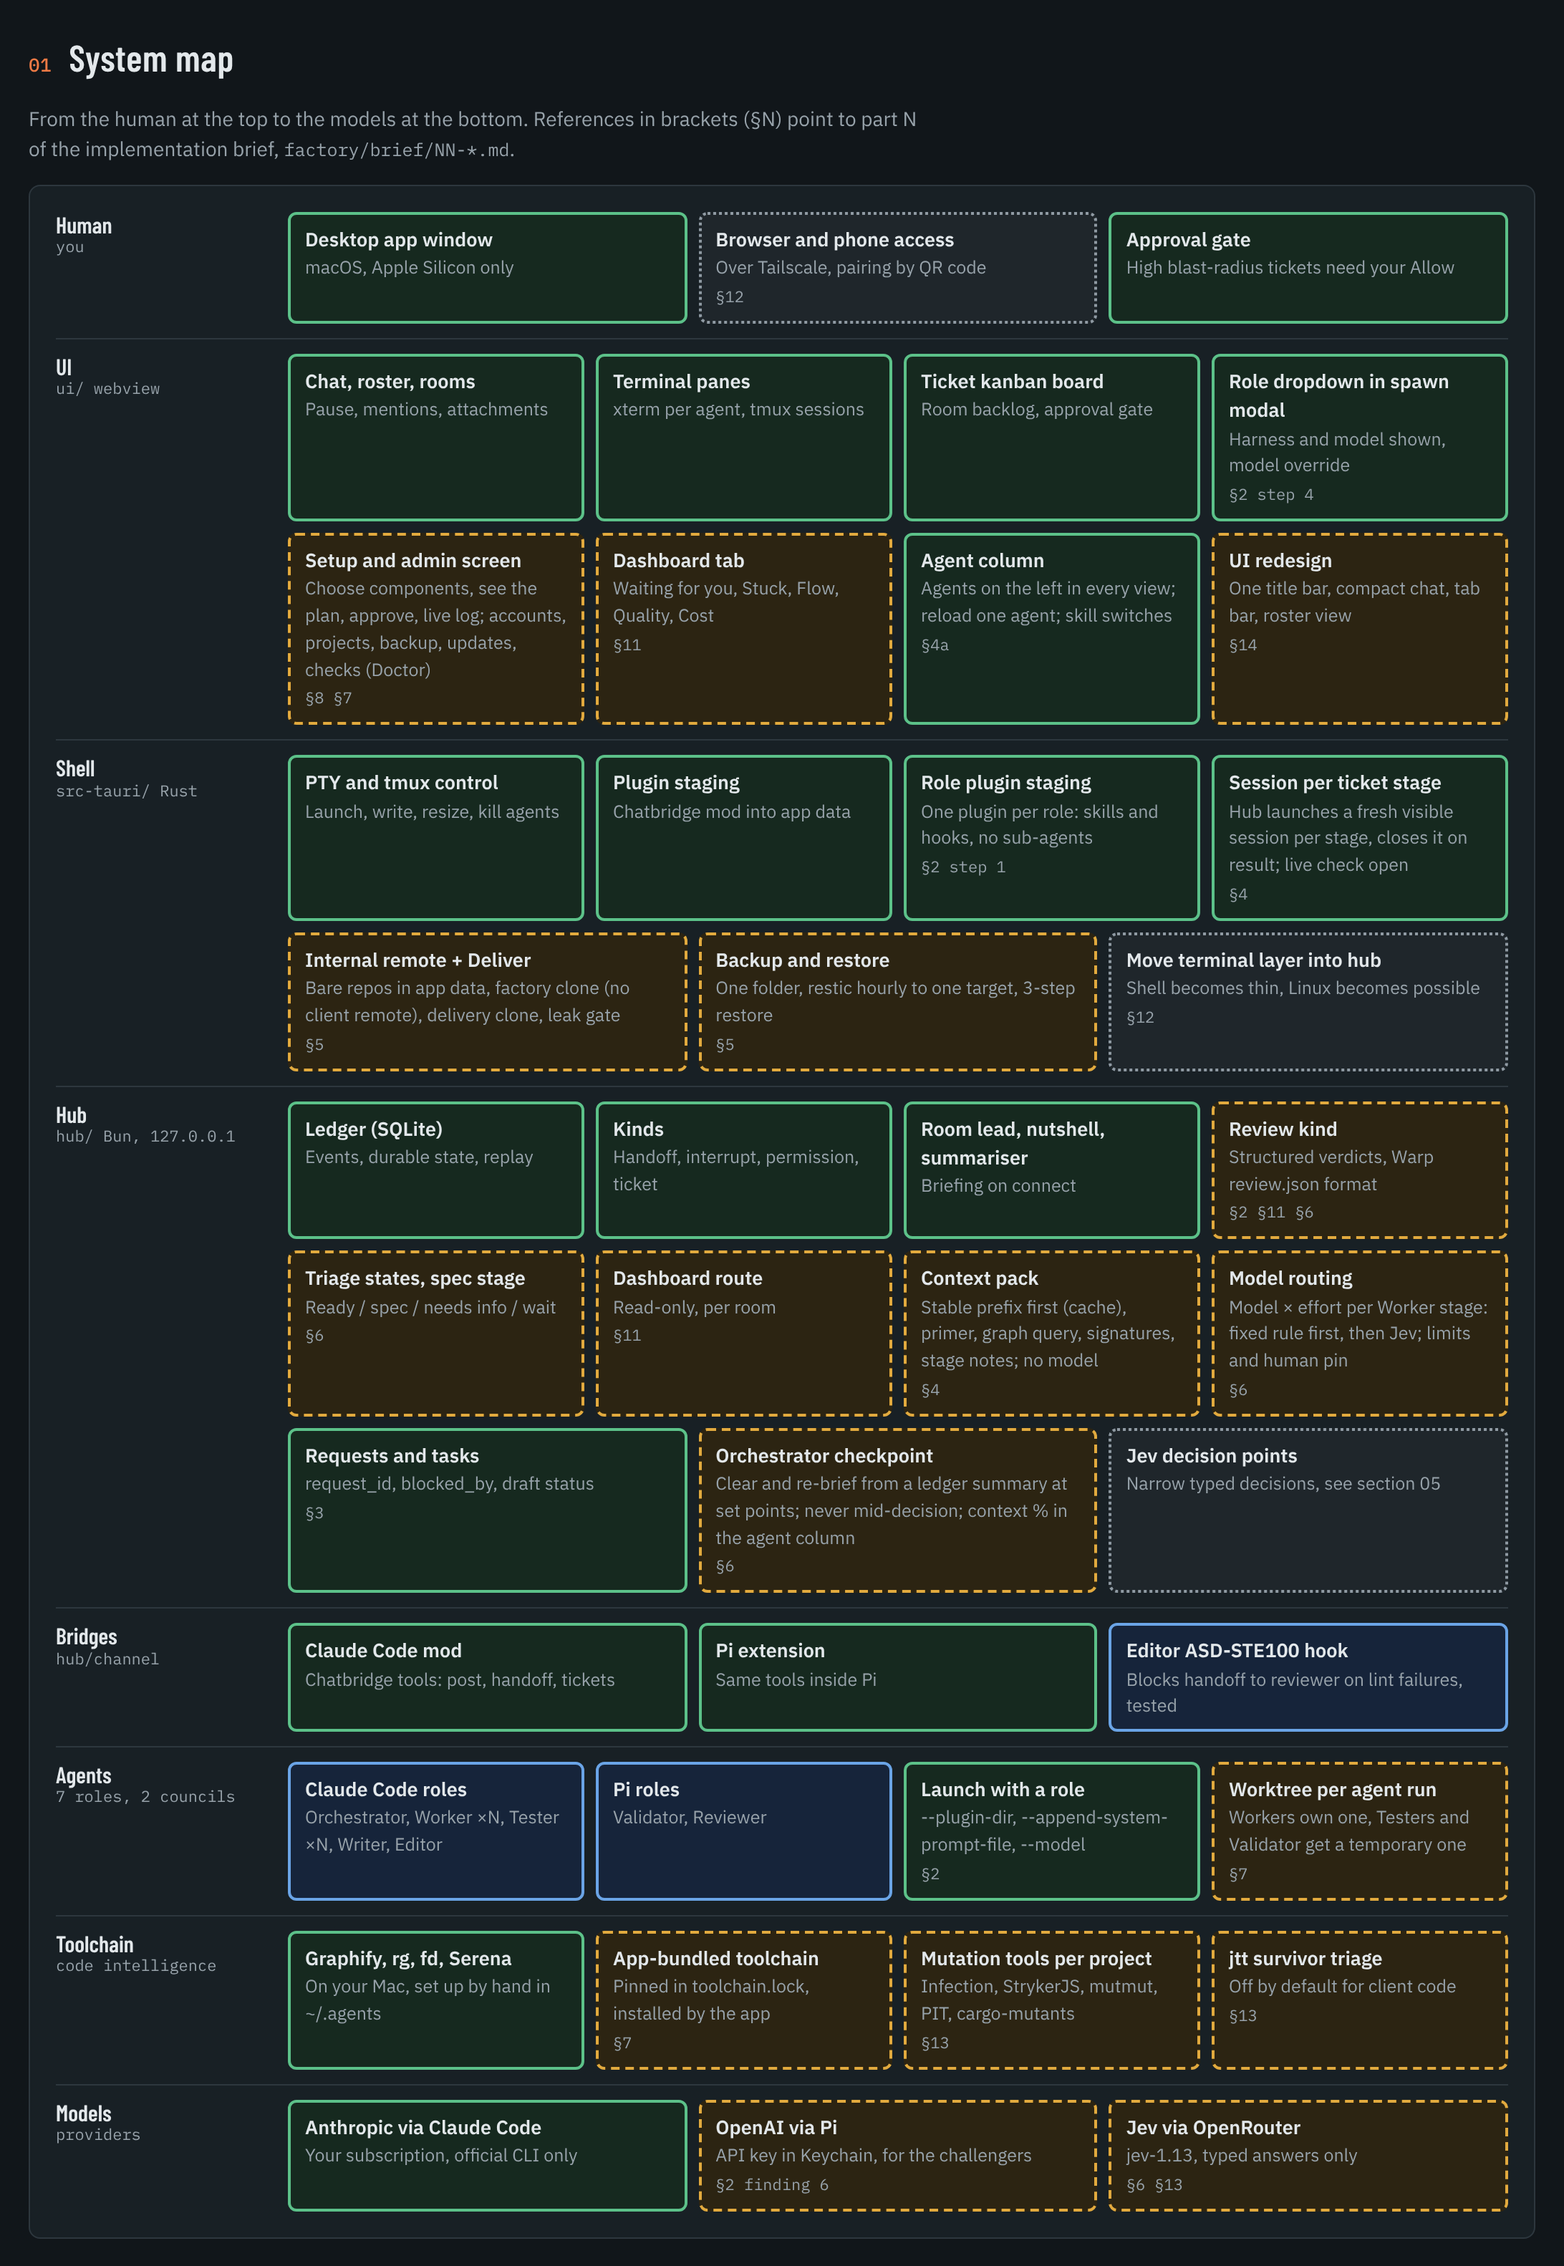
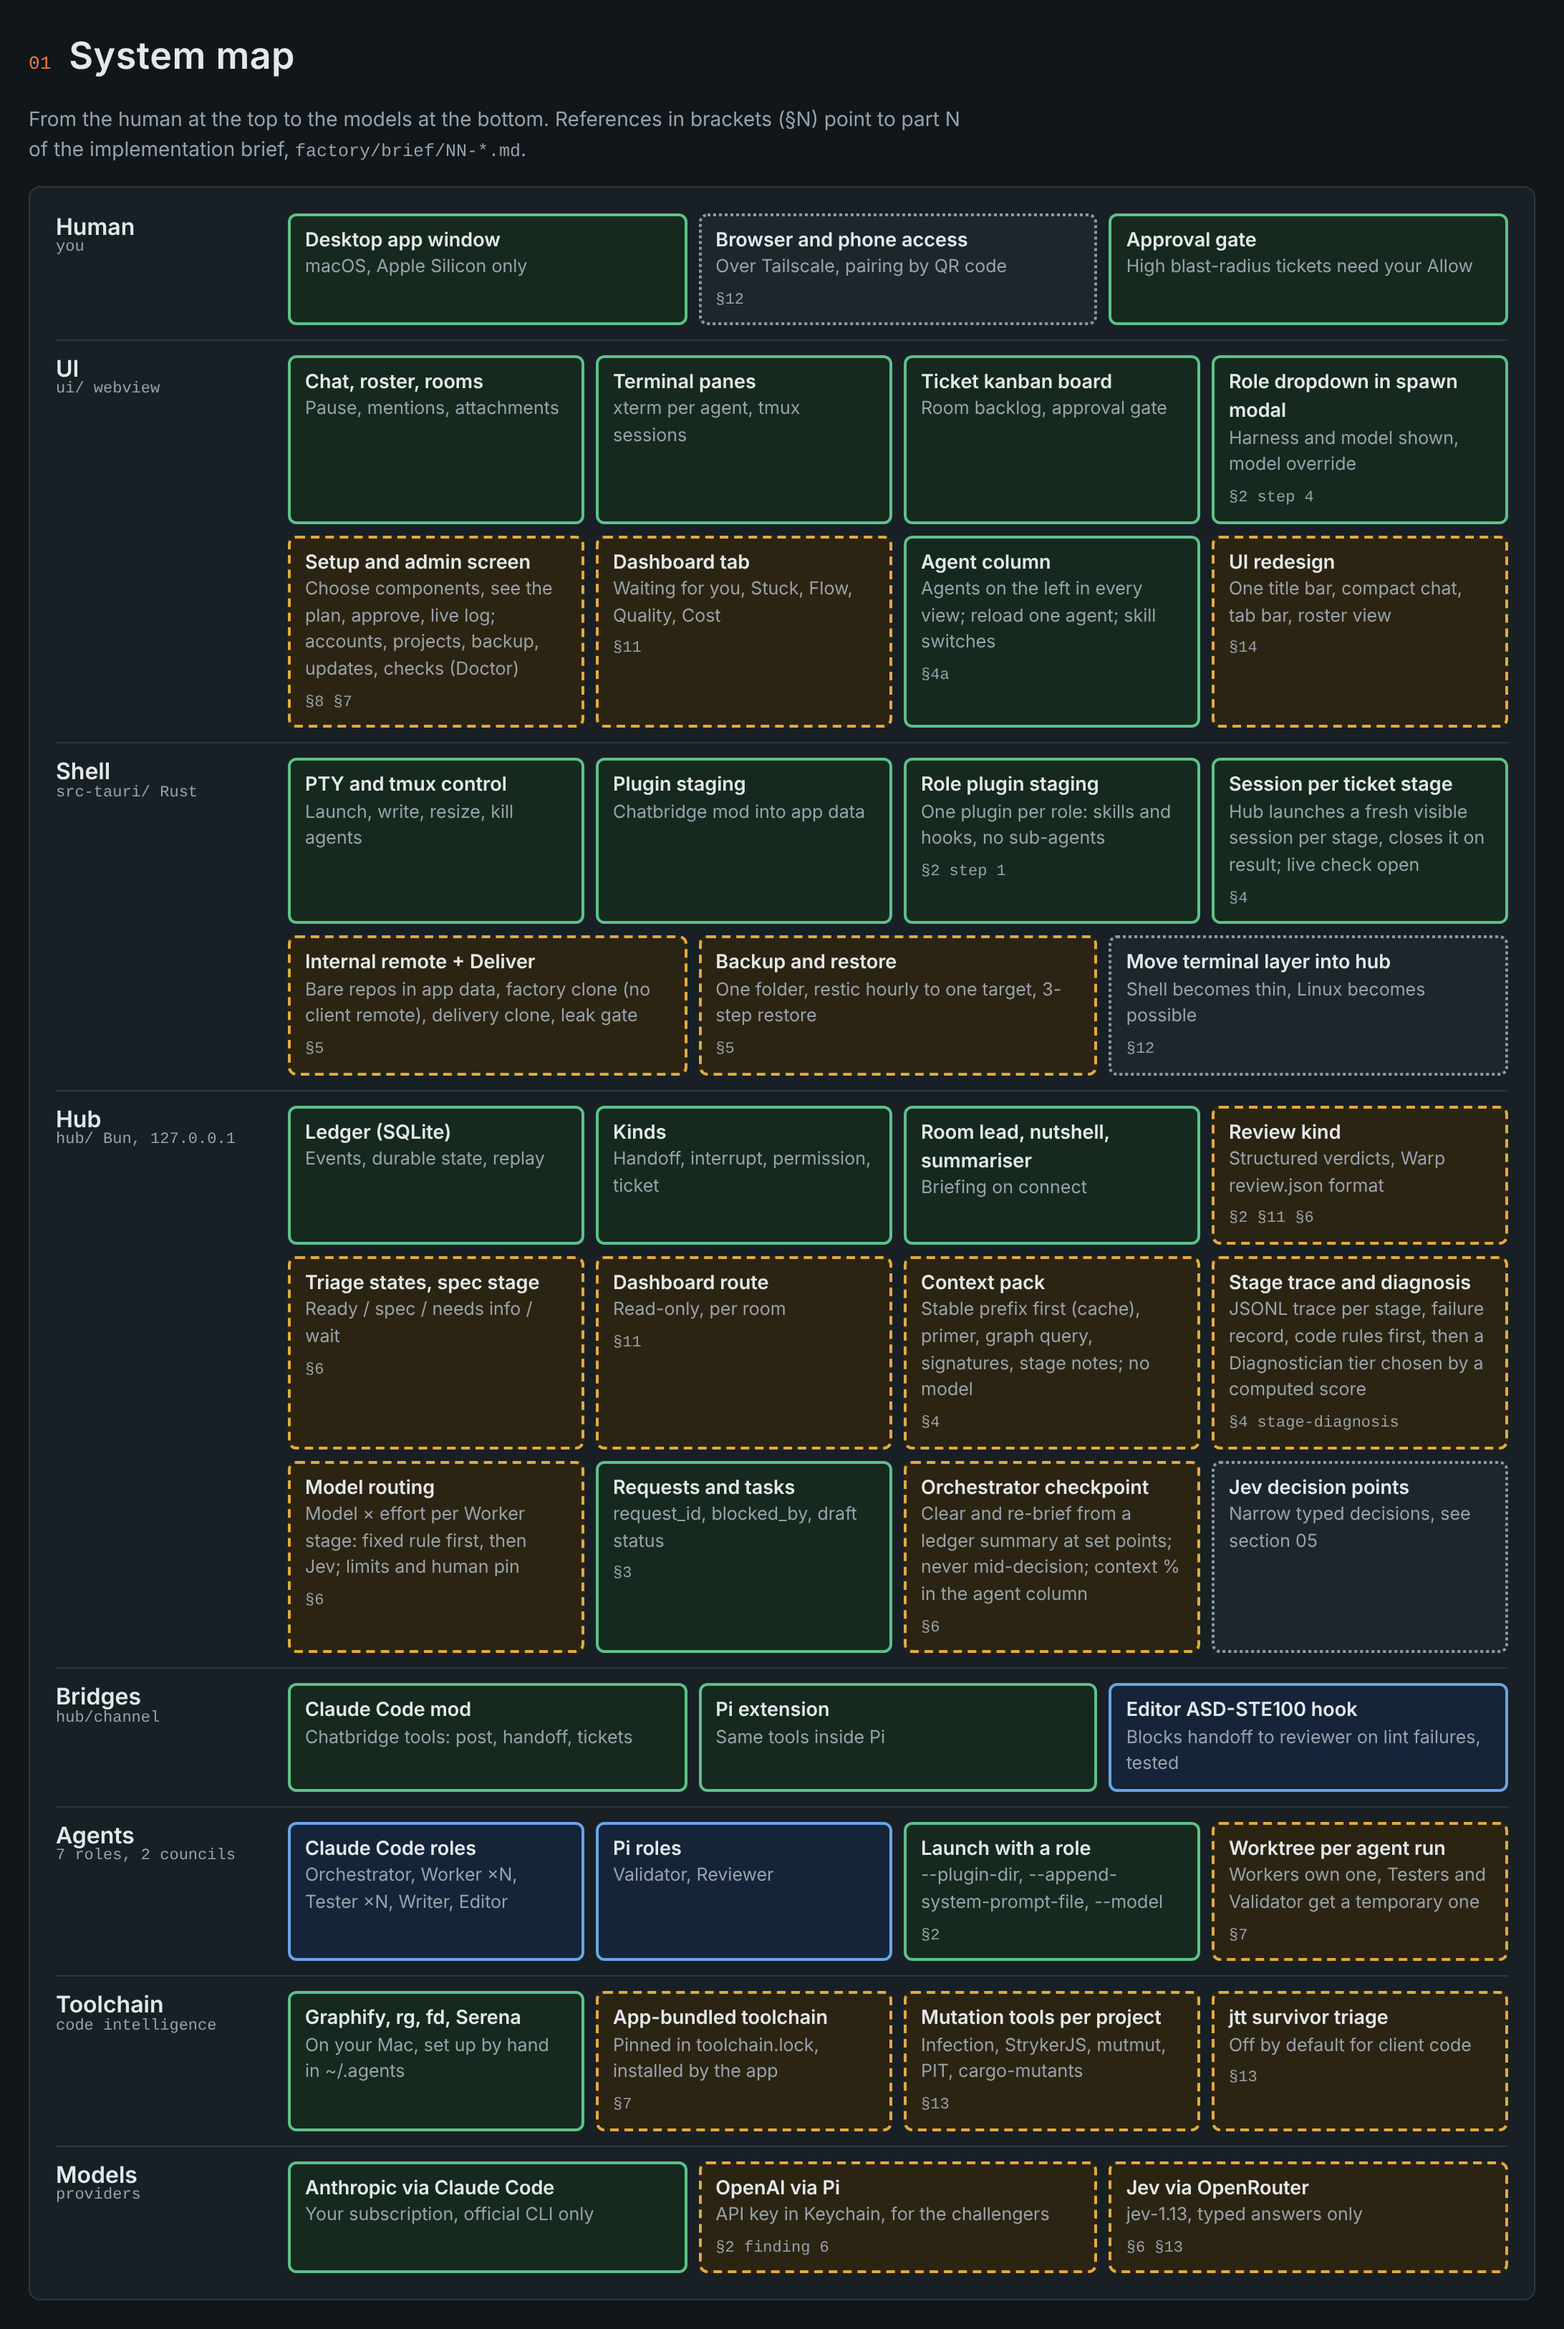
docs: factory map adds stage diagnosis (trace, failure record, Diagnostician role, tiers, stage failure flow, cause keys, fixtures, stage metrics)

diff --git a/docs/factory-map.html b/docs/factory-map.html
@@ -141,7 +141,7 @@ footer{color:var(--muted);font-size:12.5px;display:grid;gap:4px}
 <div class="wrap">
 
 <header>
-  <div class="eyebrow">Cubilot · The Continuous Software Foundry · state on 21 October 2026</div>
+  <div class="eyebrow">Cubilot · The Continuous Software Foundry · state on 27 October 2026</div>
   <h1>Cubilot Factory Map</h1>
   <p class="sub">The whole factory on one page: what runs in the code today, what is defined in the <code>factory/</code> folder, what the implementation brief plans, and which ideas are only saved. Click a status to highlight it.</p>
   <div class="legend" role="group" aria-label="Highlight by status">
@@ -199,6 +199,7 @@ footer{color:var(--muted);font-size:12.5px;display:grid;gap:4px}
         <div class="n planned"><span class="t">Triage states, spec stage</span><span class="d">Ready / spec / needs info / wait</span><span class="ref">§6</span></div>
         <div class="n planned"><span class="t">Dashboard route</span><span class="d">Read-only, per room</span><span class="ref">§11</span></div>
         <div class="n planned"><span class="t">Context pack</span><span class="d">Stable prefix first (cache), primer, graph query, signatures, stage notes; no model</span><span class="ref">§4</span></div>
+        <div class="n planned"><span class="t">Stage trace and diagnosis</span><span class="d">JSONL trace per stage, failure record, code rules first, then a Diagnostician tier chosen by a computed score; metrics on every stage; one ticket per cause</span><span class="ref">§4 stage-diagnosis</span></div>
         <div class="n planned"><span class="t">Model routing</span><span class="d">Model × effort per Worker stage: fixed rule first, then Jev; limits and human pin</span><span class="ref">§6</span></div>
         <div class="n built"><span class="t">Requests and tasks</span><span class="d">request_id, blocked_by, draft status</span><span class="ref">§3</span></div>
         <div class="n planned"><span class="t">Orchestrator checkpoint</span><span class="d">Clear and re-brief from a ledger summary at set points; never mid-decision; context % in the agent column</span><span class="ref">§6</span></div>
@@ -305,6 +306,16 @@ footer{color:var(--muted);font-size:12.5px;display:grid;gap:4px}
       <dt>never</dt><dd>edits files</dd></dl>
     </article>
 
+    <article class="n planned role">
+      <div class="head"><h3>Diagnostician</h3><span class="model">Claude · tier</span></div>
+      <span class="track">All tracks · failed stages</span>
+      <p class="job">Reads the trace and the failure record of a failed stage. Returns cause, evidence, proven or probable, and one action. Code picks the tier from a score: 0 rules only, 1–3 sonnet low, 4–6 sonnet medium, 7+ and the daily pattern run opus high.</p>
+      <dl><dt>skills</dt><dd>debugging-and-error-recovery, silent-failure-hunter, evidence-collector, stage-failure-categories (new)</dd>
+      <dt>actions</dt><dd>retry, setup-fix-and-retry, gap-ticket, ticket-change, escalate</dd>
+      <dt>measured</dt><dd>share of actions that led to a PASS, per tier</dd>
+      <dt>never</dt><dd>edits files, commits, launches, diagnoses a diagnosis</dd></dl>
+    </article>
+
     <article class="n defined role">
       <div class="head"><h3>SEO council</h3><span class="model">Claude + OpenAI</span></div>
       <span class="track">SEO track · 4 seats</span>
@@ -365,6 +376,19 @@ footer{color:var(--muted);font-size:12.5px;display:grid;gap:4px}
       </div>
       <p class="loop"><b>CHANGES</b> returns to the Writer, who sends large rewrites back through the Editor.</p>
     </div>
+  </div>
+
+  <div class="panel">
+    <h3>Stage failure</h3>
+    <div class="flow">
+      <div class="n built"><span class="t">Stage fails</span><span class="d">FAIL, time-out, crash or retry</span></div><span class="arrow">→</span>
+      <div class="n planned"><span class="t">Failure record</span><span class="d">trace, last 200 pane lines, exit status, worktree check, category</span></div><span class="arrow">→</span>
+      <div class="n planned"><span class="t">Code rules</span><span class="d">known category: run its action, no agent</span></div><span class="arrow">→</span>
+      <div class="n planned"><span class="t">Score and tier</span><span class="d">components, attempts, errors, trace gaps, repeats; same trace, same tier</span></div><span class="arrow">→</span>
+      <div class="n planned"><span class="t">Diagnostician</span><span class="d">cause, evidence, proven | probable, one action</span></div><span class="arrow">→</span>
+      <div class="n planned"><span class="t">Action</span><span class="d">retry once (proven); gap ticket per cause key, with a test that reproduces it; change to the Orchestrator</span><span class="gate">escalate: Needs you</span><span class="ref">§4 stage-diagnosis</span></div>
+    </div>
+    <p class="loop"><b>The Orchestrator</b> gets one line per failure: cause, evidence, action taken. The ticket shows <b>Why it failed</b> with a link to the trace. A repeat with the same cause key goes onto the open ticket; an ignored key stays quiet. A gap ticket is Done only when its fixture test and the full suite pass. <b>Patterns:</b> once a day, after 10 records, or when one category occurs 3 times in an hour, one opus run reads the new records, the metrics of every stage (also PASS: duration, turns, tokens, repeated tool calls) and your right/wrong marks from Needs you, and proposes gap tickets.</p>
   </div>
 
   <div class="panel">
@@ -439,7 +463,7 @@ footer{color:var(--muted);font-size:12.5px;display:grid;gap:4px}
     <div class="n built"><span class="step">1</span><span class="t">Rebrand to Cubilot</span><span class="d">done: own identifier and data folder, side by side with the previous app</span><span class="ref">§1</span></div>
     <div class="n built"><span class="step">2</span><span class="t">Roles</span><span class="d">done: launch with a role, role plugins, no sub-agents</span><span class="ref">§2</span></div>
     <div class="n built"><span class="step">3</span><span class="t">Ticket grouping</span><span class="d">done: request_id, blocked_by, draft status</span><span class="ref">§3</span></div>
-    <div class="n planned"><span class="step">4</span><span class="t">Session per ticket stage</span><span class="d">in test: built and live-checked; open: 4 high-radius tests, waivers, context pack</span><span class="ref">§4</span></div>
+    <div class="n planned"><span class="step">4</span><span class="t">Session per ticket stage</span><span class="d">in test: built and live-checked; open: 4 high-radius tests, waivers, context pack, stage diagnosis (proposed)</span><span class="ref">§4</span></div>
     <div class="n built"><span class="step">4a</span><span class="t">Agent column</span><span class="d">done: built to test Part 4; reload one agent, skill switches</span><span class="ref">§4a</span></div>
     <div class="n planned"><span class="step">6</span><span class="t">Checkpoint, routing, Warp patterns</span><span class="d">next: Orchestrator checkpoint first; then model × effort per Worker; triage, spec stage, review.json</span><span class="ref">§6</span></div>
     <div class="n planned"><span class="step">5</span><span class="t">Delivery and backup</span><span class="d">after Part 6: internal remote, Deliver step, leak gate, hourly backup</span><span class="ref">§5</span></div>

diff --git a/README.md b/README.md
@@ -25,12 +25,12 @@ Cubilot is a macOS desktop app. It runs a team of coding agents (Claude Code, an
 
 <picture>
   <source media="(prefers-color-scheme: dark)" srcset="docs/readme/02-roles-dark.png">
-  <img alt="Roles, models and skills: Orchestrator, Worker, Tester, Validator, Writer, Editor, Reviewer, and the SEO and accessibility councils" src="docs/readme/02-roles-light.png" width="100%">
+  <img alt="Roles, models and skills: Orchestrator, Worker, Tester, Validator, Writer, Editor, Reviewer, the planned Diagnostician, and the SEO and accessibility councils" src="docs/readme/02-roles-light.png" width="100%">
 </picture>
 
 <picture>
   <source media="(prefers-color-scheme: dark)" srcset="docs/readme/03-workflows-dark.png">
-  <img alt="Workflows: intake with spec review, the technical, writing, SEO and accessibility tracks" src="docs/readme/03-workflows-light.png" width="100%">
+  <img alt="Workflows: intake with spec review, the technical and writing tracks, stage failure diagnosis, and the SEO and accessibility tracks" src="docs/readme/03-workflows-light.png" width="100%">
 </picture>
 
 <picture>
